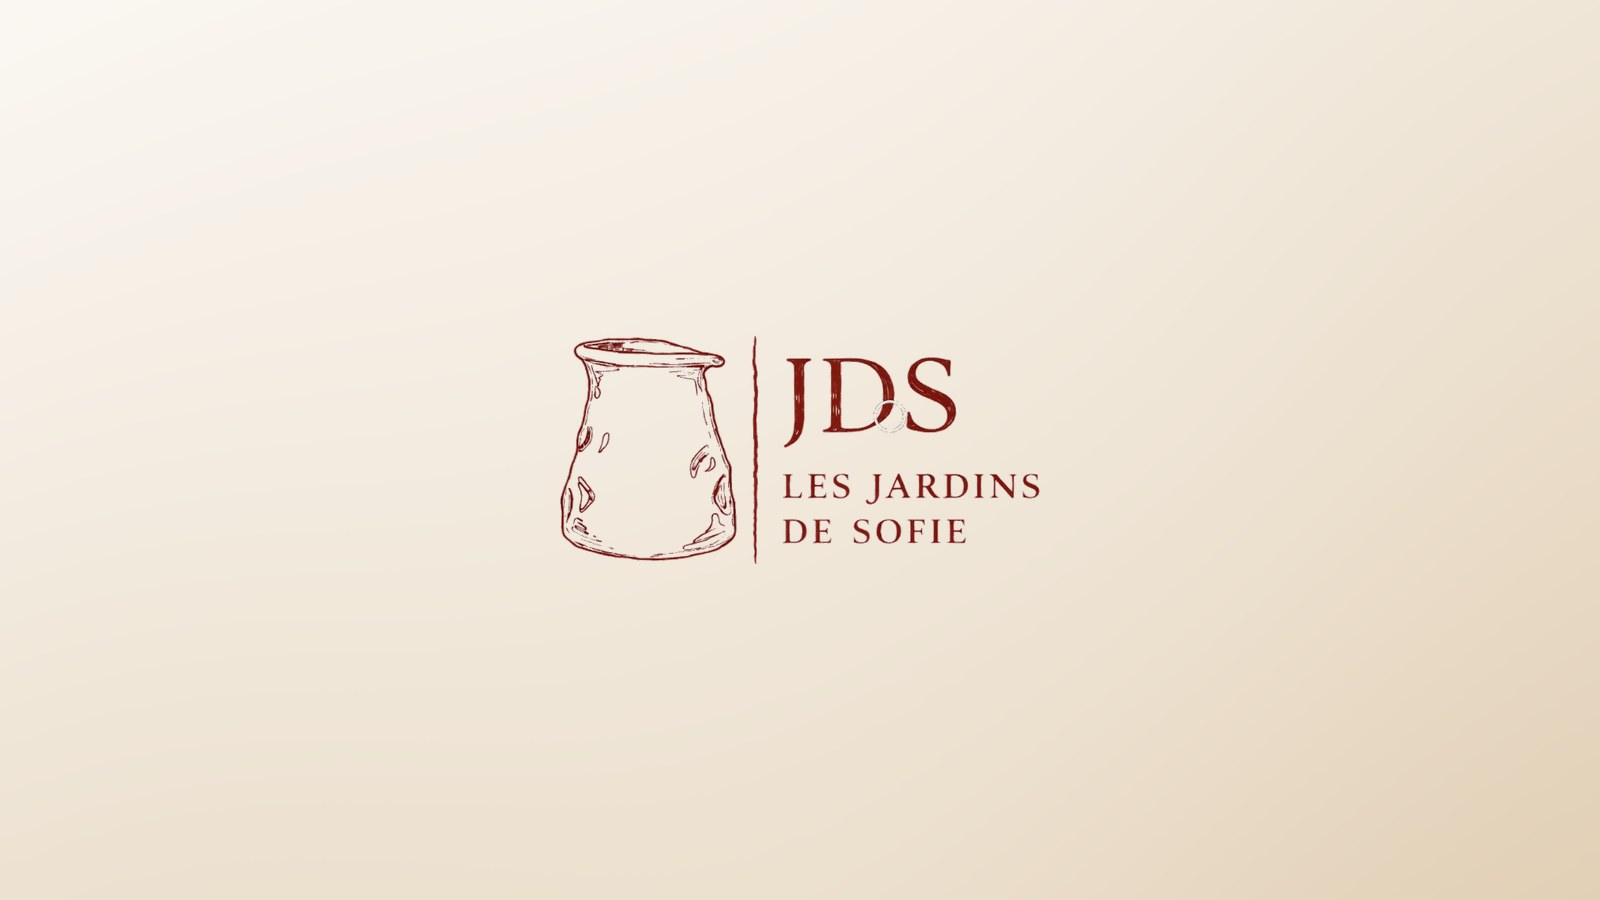
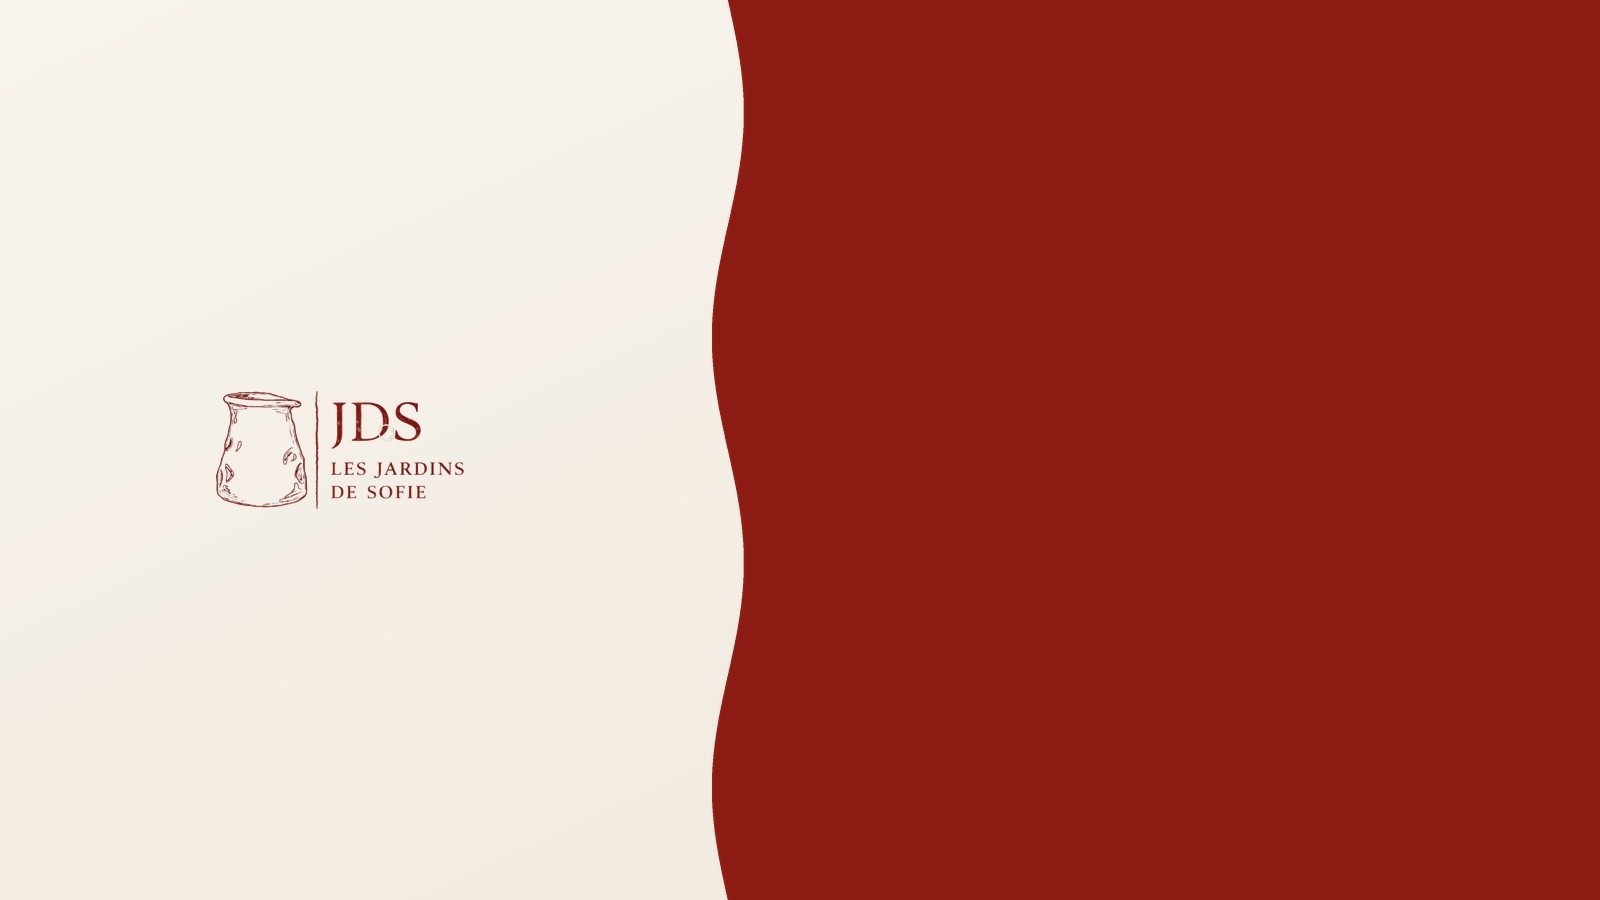
Visuels services corporate et sur-mesure : deux compositions distinctes
Les deux visuels precedents etaient quasi identiques (meme logo sur fond
sable), ce qui donnait l'impression que rien n'avait change sur la page.

- Cadeaux corporate : bicolore creme/bordeaux evoquant le coffret JDS
- Sur mesure : deux vases rayes, silhouettes nettes

Toujours en 1600x900, memes noms de fichiers.

diff --git a/README.md b/README.md
@@ -469,8 +469,9 @@ les-jardins-de-sofie/
       | `jardins-full.jpg` | Olivier en pot | ✅ photo définitive |
 
       Les deux fichiers marqués 🟡 contiennent un **visuel de marque provisoire**
-      (logo JDS sur fond sable, 1600×900) mis en place le temps de recevoir les vraies
-      photos. Ils sont nets et à la charte — ils remplacent d'anciennes photos floues.
+      en 1600×900, dessiné à la charte, le temps de recevoir les vraies photos :
+      bicolore crème/bordeaux évoquant le coffret pour l'un, vases rayés pour l'autre.
+      Ils sont nets et distincts — ils remplacent d'anciennes photos floues.
 
       Pour les remplacer : déposer les vraies photos en **paysage ~1600×900**,
       compressées sous 300 Ko, **en gardant exactement le même nom de fichier**.
